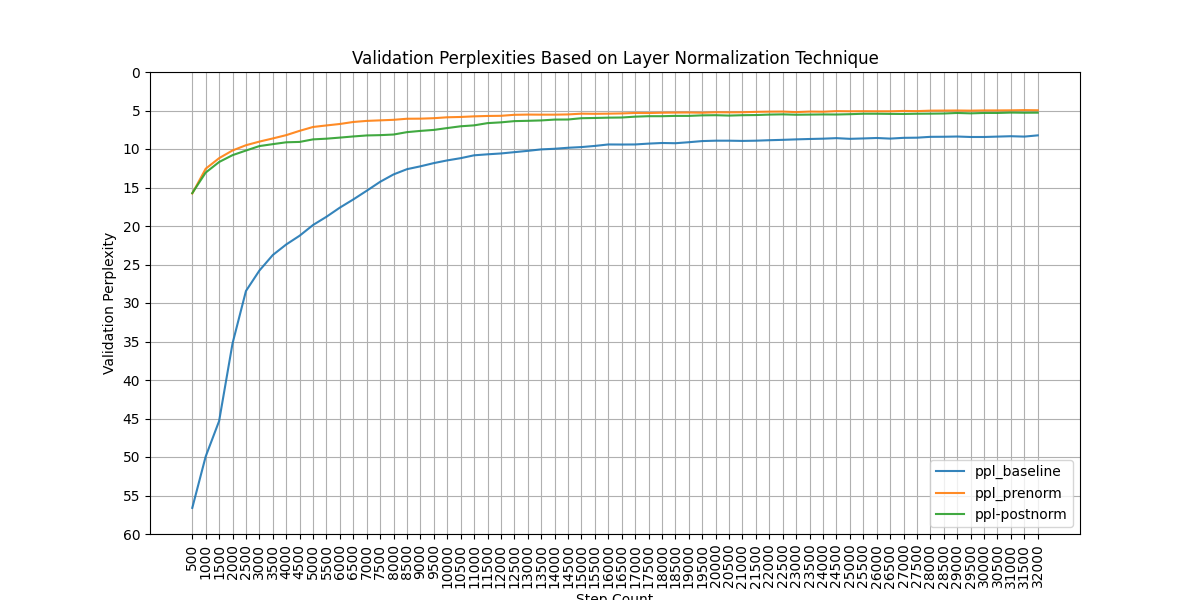
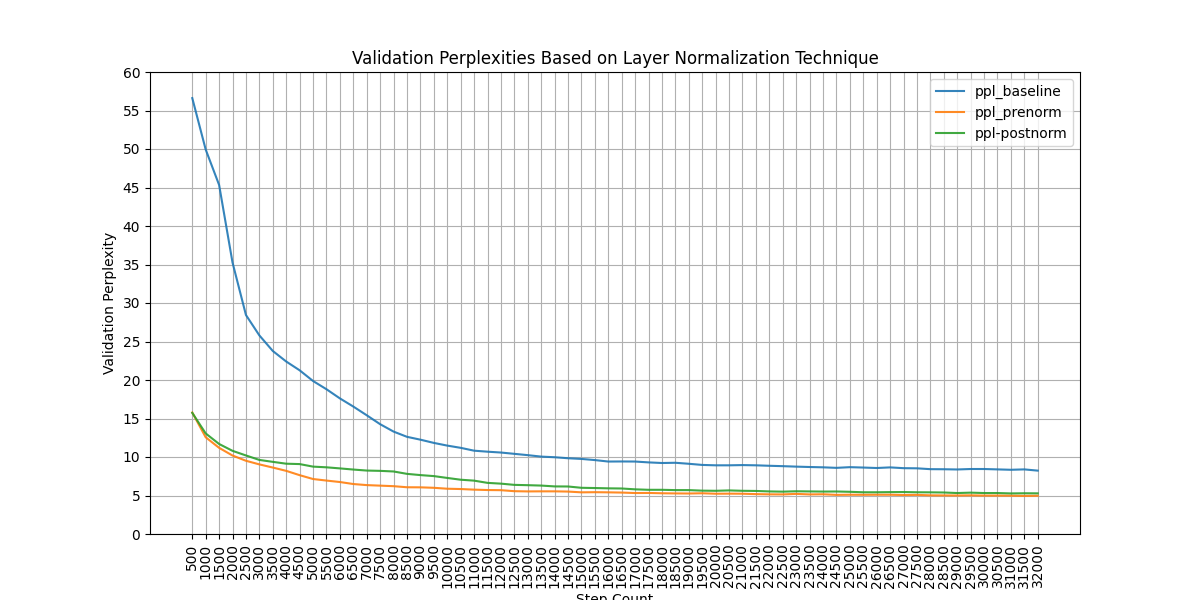
Changed y axis on plot

diff --git a/scripts/plot_line_chart.py b/scripts/plot_line_chart.py
@@ -48,7 +48,7 @@ max_ppl = np.ceil(all_ppl.max())
 start = 5 * int(min_ppl // 5)
 end = 5 * int((max_ppl // 5) + 1)
 
-plt.gca().invert_yaxis()
+
 plt.yticks(np.arange(start, end + 1, 5))
 
 plt.xlabel('Step Count')
